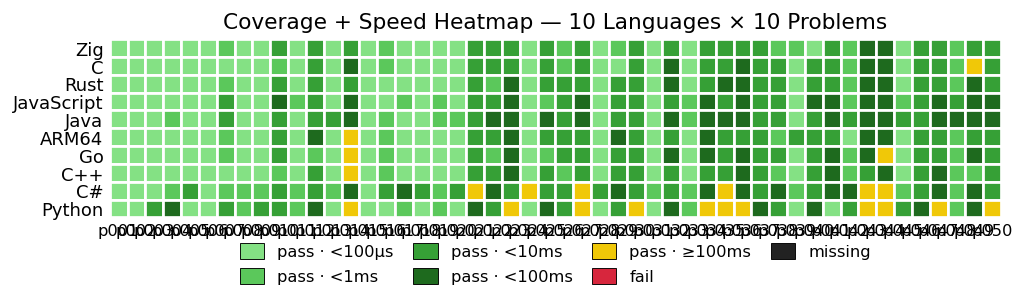
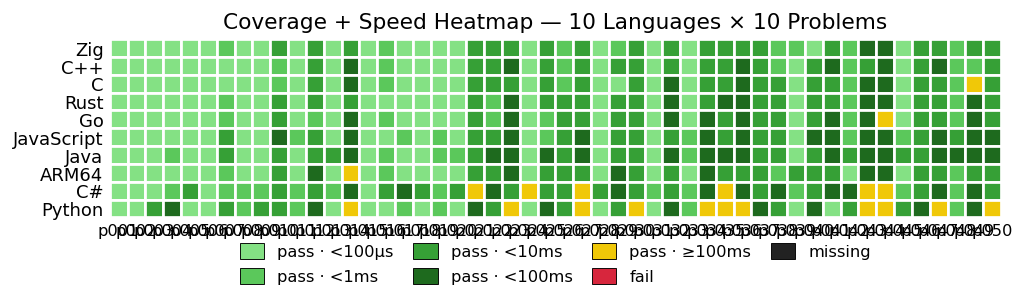
bench refresh: cpp/go p014 dense-array memo fix (priors-restoring — cpp #8→#2, go #7→#5, all compiled natives now in top 5)

diff --git a/RESULTS.md b/RESULTS.md
@@ -18,13 +18,13 @@ the headline per-problem number, and we sum across the 50 problems for the total
 | Rank | Language | Total (50 problems) | Lines of code | vs Fastest |
 |------|----------|--------------------:|--------------:|-----------:|
 | 1 | **Zig** | 136.13 ms | 2,580 | 1.00× |
-| 2 | **C** | 337.49 ms | 2,525 | 2.48× |
-| 3 | **Rust** | 343.40 ms | 2,159 | 2.52× |
-| 4 | **JavaScript** | 404.99 ms | 1,684 | 2.97× |
-| 5 | **Java** | 458.83 ms | 2,119 | 3.37× |
-| 6 | **ARM64** | 494.75 ms | 6,592 | 3.63× |
-| 7 | **Go** | 568.92 ms | 2,328 | 4.18× |
-| 8 | **C++** | 571.51 ms | 2,014 | 4.20× |
+| 2 | **C++** | 331.63 ms | 2,010 | 2.44× |
+| 3 | **C** | 337.49 ms | 2,525 | 2.48× |
+| 4 | **Rust** | 343.40 ms | 2,159 | 2.52× |
+| 5 | **Go** | 373.63 ms | 2,354 | 2.74× |
+| 6 | **JavaScript** | 404.99 ms | 1,684 | 2.97× |
+| 7 | **Java** | 458.83 ms | 2,119 | 3.37× |
+| 8 | **ARM64** | 494.75 ms | 6,592 | 3.63× |
 | 9 | **C#** | 1.60 s | 2,295 | 11.73× |
 | 10 | **Python** | 11.36 s | 1,467 | 83.43× |
 
@@ -61,13 +61,13 @@ are sorted by total (fastest language at top).
 | Language | p001 | p002 | p003 | p004 | p005 | p006 | p007 | p008 | p009 | p010 | p011 | p012 | p013 | p014 | p015 | p016 | p017 | p018 | p019 | p020 | p021 | p022 | p023 | p024 | p025 | p026 | p027 | p028 | p029 | p030 | p031 | p032 | p033 | p034 | p035 | p036 | p037 | p038 | p039 | p040 | p041 | p042 | p043 | p044 | p045 | p046 | p047 | p048 | p049 | p050 |
 |----------|----:|----:|----:|----:|----:|----:|----:|----:|----:|----:|----:|----:|----:|----:|----:|----:|----:|----:|----:|----:|----:|----:|----:|----:|----:|----:|----:|----:|----:|----:|----:|----:|----:|----:|----:|----:|----:|----:|----:|----:|----:|----:|----:|----:|----:|----:|----:|----:|----:|----:|
 | **Zig** | 42 ns | 42 ns | 708 ns | 3.8 µs | 417 ns | 42 ns | 219.1 µs | 1.6 µs | 250 ns | 2.77 ms | 2.4 µs | 1.40 ms | 42 ns | 8.94 ms | 42 ns | 477.2 µs | 2.2 µs | 42 ns | 4.7 µs | 31.9 µs | 1.52 ms | 1.03 ms | 8.56 ms | 292 ns | 6.85 ms | 652.8 µs | 6.08 ms | 41 ns | 542.9 µs | 1.50 ms | 1.0 µs | 1.16 ms | 2.0 µs | 9.92 ms | 2.32 ms | 4.94 ms | 1.95 ms | 215.1 µs | 104.0 µs | 291 ns | 8.55 ms | 227.1 µs | 11.18 ms | 36.45 ms | 44.6 µs | 3.98 ms | 8.36 ms | 104.0 µs | 2.58 ms | 3.45 ms |
+| **C++** | 166 ns | 167 ns | 34.7 µs | 32.0 µs | 542 ns | 42 ns | 24.4 µs | 3.0 µs | 334 ns | 375.9 µs | 500 ns | 1.47 ms | 19.7 µs | 12.31 ms | 167 ns | 626.8 µs | 2.5 µs | 292 ns | 4.3 µs | 27.6 µs | 1.51 ms | 1.28 ms | 29.33 ms | 625 ns | 5.88 ms | 733.4 µs | 9.73 ms | 83 ns | 2.28 ms | 1.41 ms | 708 ns | 7.46 ms | 8.2 µs | 9.62 ms | 5.55 ms | 63.08 ms | 3.69 ms | 559.8 µs | 2.8 µs | 3.78 ms | 17.54 ms | 315.7 µs | 9.92 ms | 40.85 ms | 49.2 µs | 3.76 ms | 93.61 ms | 125.4 µs | 213.0 µs | 4.41 ms |
 | **C** | 41 ns | 41 ns | 583 ns | 3.2 µs | 416 ns | 42 ns | 29.9 µs | 2.7 µs | 250 ns | 355.6 µs | 1.5 µs | 1.45 ms | 42 ns | 10.72 ms | 42 ns | 491.2 µs | 2.2 µs | 250 ns | 5.0 µs | 26.2 µs | 1.52 ms | 1.58 ms | 8.58 ms | 167 ns | 6.46 ms | 612.9 µs | 7.44 ms | 42 ns | 12.4 µs | 1.41 ms | 708 ns | 12.59 ms | 8.2 µs | 9.68 ms | 3.10 ms | 54.81 ms | 2.57 ms | 1.94 ms | 3.4 µs | 9.34 ms | 7.78 ms | 308.6 µs | 10.36 ms | 50.25 ms | 48.7 µs | 3.97 ms | 6.95 ms | 146.5 µs | 119.30 ms | 3.63 ms |
 | **Rust** | 42 ns | 83 ns | 94.8 µs | 17.8 µs | 583 ns | 42 ns | 245.7 µs | 10.6 µs | 291 ns | 1.08 ms | 42 ns | 1.35 ms | 39.4 µs | 7.23 ms | 42 ns | 57.9 µs | 2.0 µs | 250 ns | 4.8 µs | 23.4 µs | 1.82 ms | 711.1 µs | 92.96 ms | 708 ns | 7.09 ms | 5.66 ms | 7.85 ms | 875 ns | 4.38 ms | 2.37 ms | 2.2 µs | 13.35 ms | 7.7 µs | 9.10 ms | 28.86 ms | 79.01 ms | 2.73 ms | 1.70 ms | 3.5 µs | 7.56 ms | 7.61 ms | 119.6 µs | 10.76 ms | 15.65 ms | 48.2 µs | 5.56 ms | 7.00 ms | 169.5 µs | 18.53 ms | 2.66 ms |
+| **Go** | 1.5 µs | 1.4 µs | 2.1 µs | 4.8 µs | 1.8 µs | 1.8 µs | 477.5 µs | 5.7 µs | 1.8 µs | 4.72 ms | 3.1 µs | 677.0 µs | 68.1 µs | 10.57 ms | 1.5 µs | 585.0 µs | 5.5 µs | 2.2 µs | 6.7 µs | 20.0 µs | 1.58 ms | 728.2 µs | 10.14 ms | 1.9 µs | 122.9 µs | 1.57 ms | 6.02 ms | 1.9 µs | 6.30 ms | 2.15 ms | 6.0 µs | 17.42 ms | 11.1 µs | 13.63 ms | 4.20 ms | 42.22 ms | 2.64 ms | 1.04 ms | 9.7 µs | 4.29 ms | 11.13 ms | 291.2 µs | 20.58 ms | 166.18 ms | 52.3 µs | 4.08 ms | 5.98 ms | 416.7 µs | 28.41 ms | 5.28 ms |
 | **JavaScript** | 19.0 µs | 12.1 µs | 49.2 µs | 96.8 µs | 29.0 µs | 7.1 µs | 2.69 ms | 99.4 µs | 27.0 µs | 10.11 ms | 148.0 µs | 1.65 ms | 42.8 µs | 20.94 ms | 12.2 µs | 42.6 µs | 172.9 µs | 41.0 µs | 127.3 µs | 41.6 µs | 2.49 ms | 1.53 ms | 16.19 ms | 37.3 µs | 486.8 µs | 1.26 ms | 13.49 ms | 24.8 µs | 1.27 ms | 6.00 ms | 67.3 µs | 9.54 ms | 236.8 µs | 34.33 ms | 8.88 ms | 65.25 ms | 7.28 ms | 1.54 ms | 93.0 µs | 10.21 ms | 14.54 ms | 938.0 µs | 35.42 ms | 56.05 ms | 707.2 µs | 9.81 ms | 11.36 ms | 1.16 ms | 47.98 ms | 10.45 ms |
 | **Java** | 2.5 µs | 2.8 µs | 8.0 µs | 307.3 µs | 5.5 µs | 1.9 µs | 1.62 ms | 55.0 µs | 6.0 µs | 8.17 ms | 65.7 µs | 2.09 ms | 1.99 ms | 13.65 ms | 2.1 µs | 962.7 µs | 76.8 µs | 21.2 µs | 181.6 µs | 879.7 µs | 2.15 ms | 14.19 ms | 14.66 ms | 4.7 µs | 84.61 ms | 1.91 ms | 14.54 ms | 14.1 µs | 4.75 ms | 4.19 ms | 18.6 µs | 26.50 ms | 116.0 µs | 25.63 ms | 11.10 ms | 38.47 ms | 9.93 ms | 3.82 ms | 26.6 µs | 5.75 ms | 18.79 ms | 8.88 ms | 27.42 ms | 40.33 ms | 1.30 ms | 6.82 ms | 12.43 ms | 15.88 ms | 21.23 ms | 13.25 ms |
 | **ARM64** | 0 ns | 0 ns | 1.0 µs | 3.0 µs | 1.0 µs | 0 ns | 306.0 µs | 4.0 µs | 1.0 µs | 5.45 ms | 3.0 µs | 63.71 ms | 2.0 µs | 179.38 ms | 0 ns | 476.0 µs | 3.0 µs | 1.0 µs | 7.0 µs | 16.0 µs | 2.39 ms | 1.33 ms | 11.22 ms | 0 ns | 7.45 ms | 1.04 ms | 8.46 ms | 1.0 µs | 55.31 ms | 1.81 ms | 2.0 µs | 1.48 ms | 15.0 µs | 11.43 ms | 3.64 ms | 5.66 ms | 3.27 ms | 207.0 µs | 2.60 ms | 1.33 ms | 8.49 ms | 27.0 µs | 15.84 ms | 84.68 ms | 77.0 µs | 4.84 ms | 7.82 ms | 132.0 µs | 1.22 ms | 3.61 ms |
-| **Go** | 1.5 µs | 1.4 µs | 2.1 µs | 4.8 µs | 1.8 µs | 1.8 µs | 477.5 µs | 5.7 µs | 1.8 µs | 4.72 ms | 3.1 µs | 677.0 µs | 68.1 µs | 205.86 ms | 1.5 µs | 585.0 µs | 5.5 µs | 2.2 µs | 6.7 µs | 20.0 µs | 1.58 ms | 728.2 µs | 10.14 ms | 1.9 µs | 122.9 µs | 1.57 ms | 6.02 ms | 1.9 µs | 6.30 ms | 2.15 ms | 6.0 µs | 17.42 ms | 11.1 µs | 13.63 ms | 4.20 ms | 42.22 ms | 2.64 ms | 1.04 ms | 9.7 µs | 4.29 ms | 11.13 ms | 291.2 µs | 20.58 ms | 166.18 ms | 52.3 µs | 4.08 ms | 5.98 ms | 416.7 µs | 28.41 ms | 5.28 ms |
-| **C++** | 166 ns | 167 ns | 34.7 µs | 32.0 µs | 542 ns | 42 ns | 24.4 µs | 3.0 µs | 334 ns | 375.9 µs | 500 ns | 1.47 ms | 19.7 µs | 252.19 ms | 167 ns | 626.8 µs | 2.5 µs | 292 ns | 4.3 µs | 27.6 µs | 1.51 ms | 1.28 ms | 29.33 ms | 625 ns | 5.88 ms | 733.4 µs | 9.73 ms | 83 ns | 2.28 ms | 1.41 ms | 708 ns | 7.46 ms | 8.2 µs | 9.62 ms | 5.55 ms | 63.08 ms | 3.69 ms | 559.8 µs | 2.8 µs | 3.78 ms | 17.54 ms | 315.7 µs | 9.92 ms | 40.85 ms | 49.2 µs | 3.76 ms | 93.61 ms | 125.4 µs | 213.0 µs | 4.41 ms |
 | **C#** | 54.8 µs | 64.0 µs | 80.6 µs | 136.5 µs | 1.70 ms | 27.1 µs | 696.7 µs | 179.2 µs | 521.2 µs | 9.73 ms | 662.8 µs | 3.38 ms | 466.1 µs | 58.52 ms | 58.2 µs | 2.48 ms | 12.38 ms | 3.84 ms | 299.4 µs | 2.76 ms | 168.50 ms | 23.76 ms | 8.49 ms | 416.85 ms | 4.58 ms | 1.91 ms | 118.17 ms | 3.29 ms | 22.00 ms | 3.19 ms | 223.2 µs | 9.54 ms | 248.2 µs | 19.98 ms | 176.76 ms | 13.36 ms | 7.29 ms | 21.05 ms | 683.2 µs | 6.24 ms | 24.75 ms | 16.80 ms | 255.46 ms | 129.27 ms | 407.0 µs | 7.93 ms | 10.89 ms | 671.1 µs | 18.55 ms | 7.94 ms |
 | **Python** | 1.6 µs | 3.0 µs | 5.59 ms | 55.36 ms | 4.5 µs | 916 ns | 1.38 ms | 852.1 µs | 4.64 ms | 5.27 ms | 223.6 µs | 21.13 ms | 4.3 µs | 6.15 s | 2.0 µs | 25.8 µs | 168.9 µs | 17.6 µs | 142.3 µs | 16.0 µs | 25.56 ms | 3.72 ms | 578.16 ms | 10.2 µs | 22.43 ms | 7.59 ms | 406.94 ms | 34.9 µs | 2.66 ms | 215.86 ms | 49.7 µs | 42.23 ms | 351.5 µs | 1.77 s | 100.18 ms | 146.76 ms | 75.41 ms | 4.04 ms | 82.9 µs | 17.55 ms | 61.0 µs | 1.12 ms | 921.46 ms | 161.44 ms | 3.60 ms | 20.36 ms | 395.76 ms | 642.8 µs | 77.64 ms | 109.16 ms |
 
